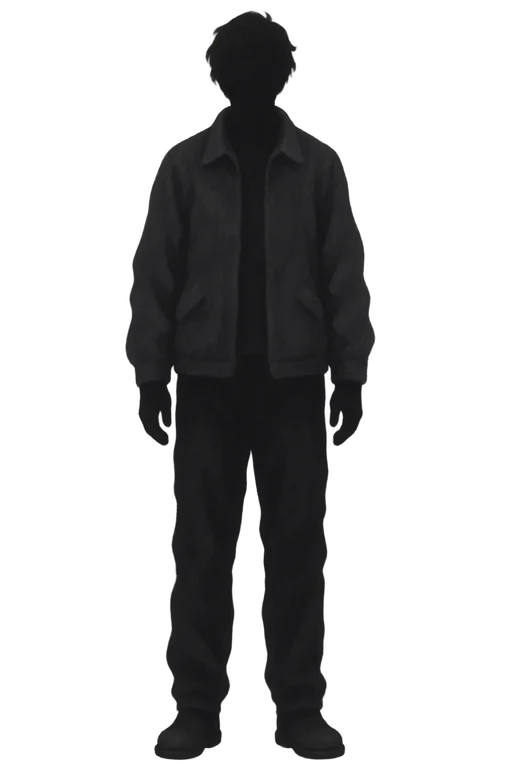
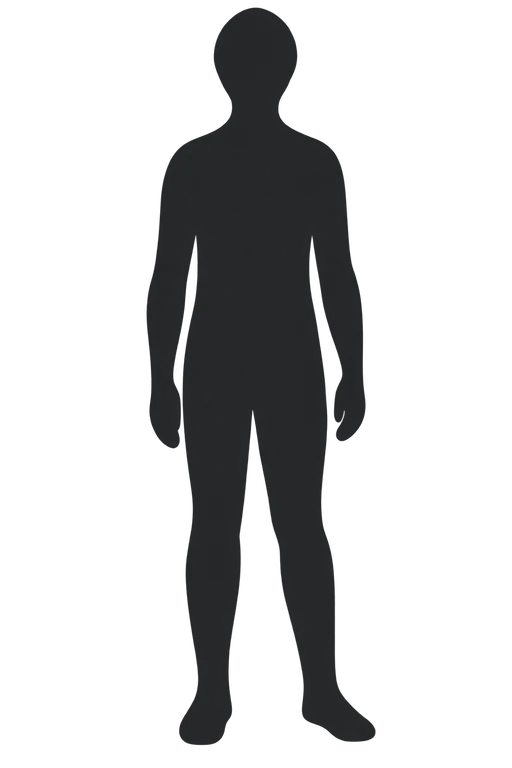
Use a relaxed translucent charcoal NPC silhouette

diff --git a/packages/villages/src/client/features/scenes/villages-scene-styles.ts b/packages/villages/src/client/features/scenes/villages-scene-styles.ts
@@ -39,7 +39,7 @@ ${tag}[data-scene-keyboard] .${tag}-chat-vn { padding-bottom: 0; }
   border: 1px solid var(--border); background: var(--secondary); display: grid; place-items: center; align-self: start;
 }
 .${tag}-chat-vn-portrait svg { width: 1.75rem; height: 1.75rem; color: var(--muted-foreground); }
-.${tag}-room-screen img[data-npc-sprite] { object-fit: contain; background: transparent; border: 0; border-radius: 0; box-shadow: none; }
+.${tag}-room-screen img[data-npc-sprite] { object-fit: contain; opacity: .78; filter: none; background: transparent; border: 0; border-radius: 0; box-shadow: none; }
 .${tag}-room-screen .${tag}-chat-vn-column { gap: .5rem; }
 .${tag}-room-screen .${tag}-chat-vn-name,
 .${tag}-room-screen .${tag}-chat-vn-label { font-size: .875rem; font-weight: 600; }
